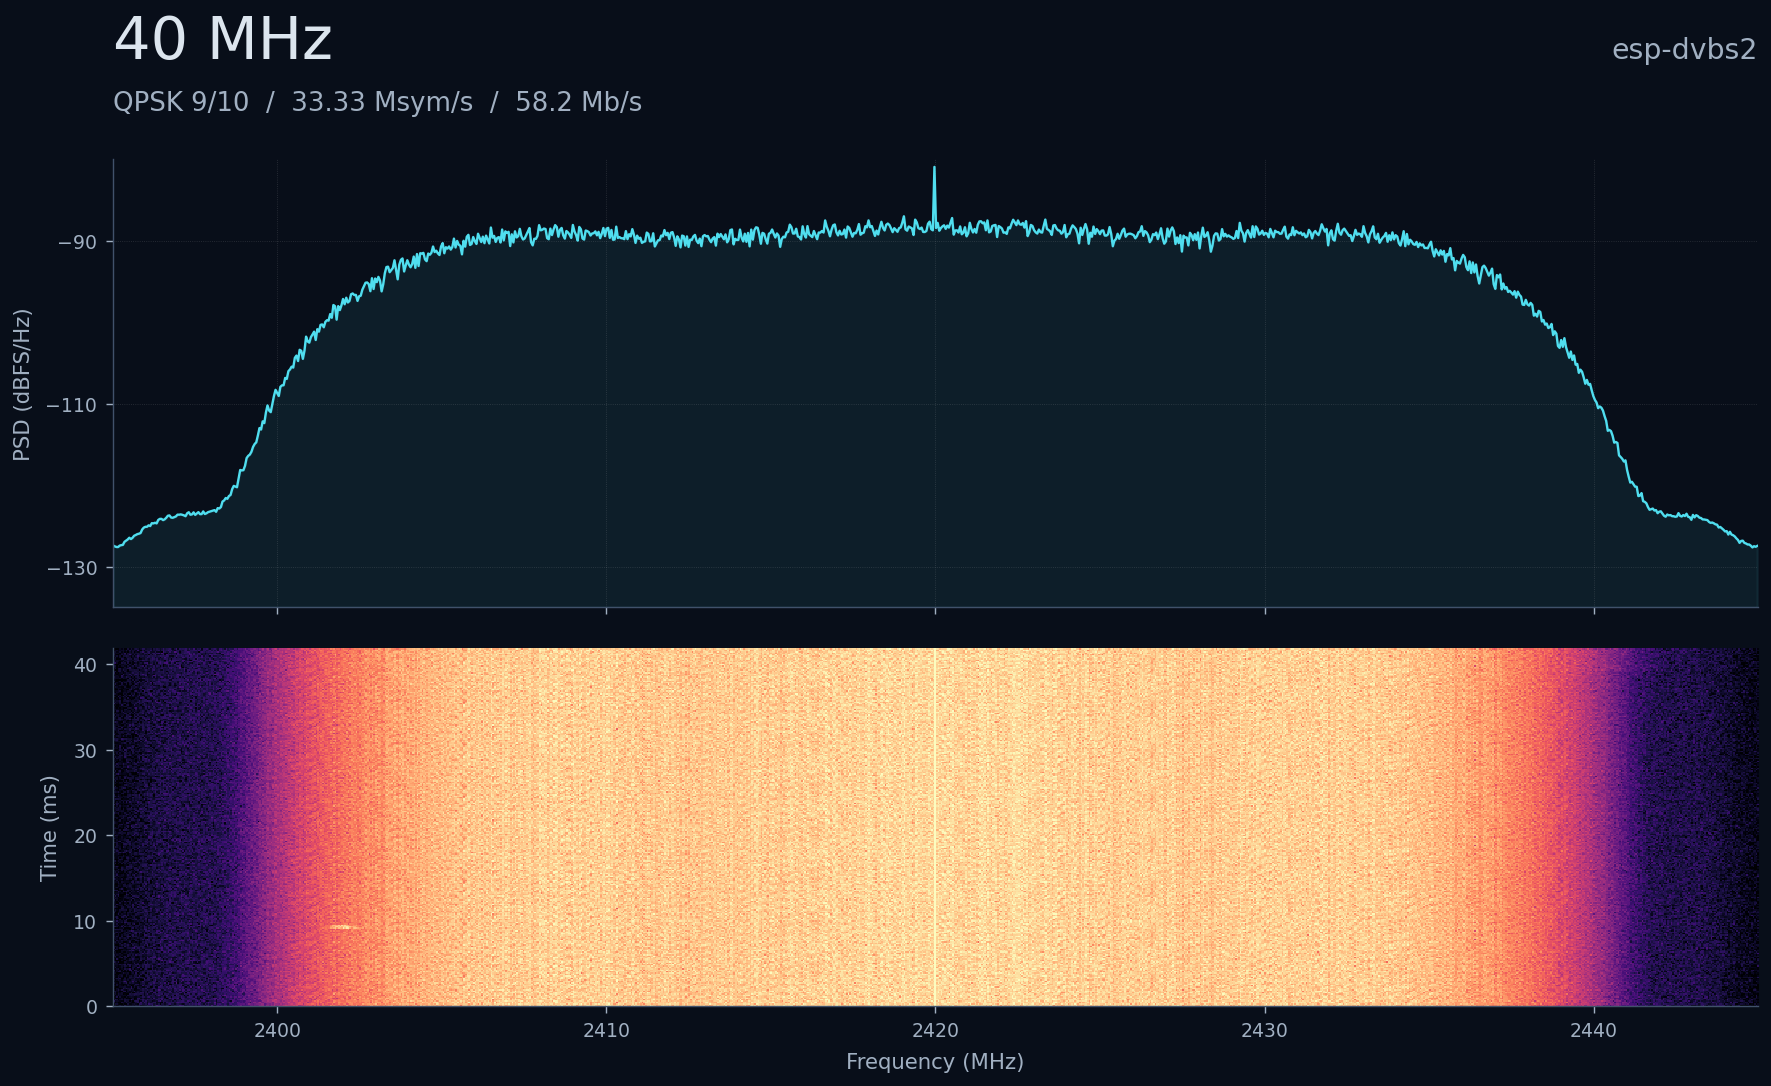
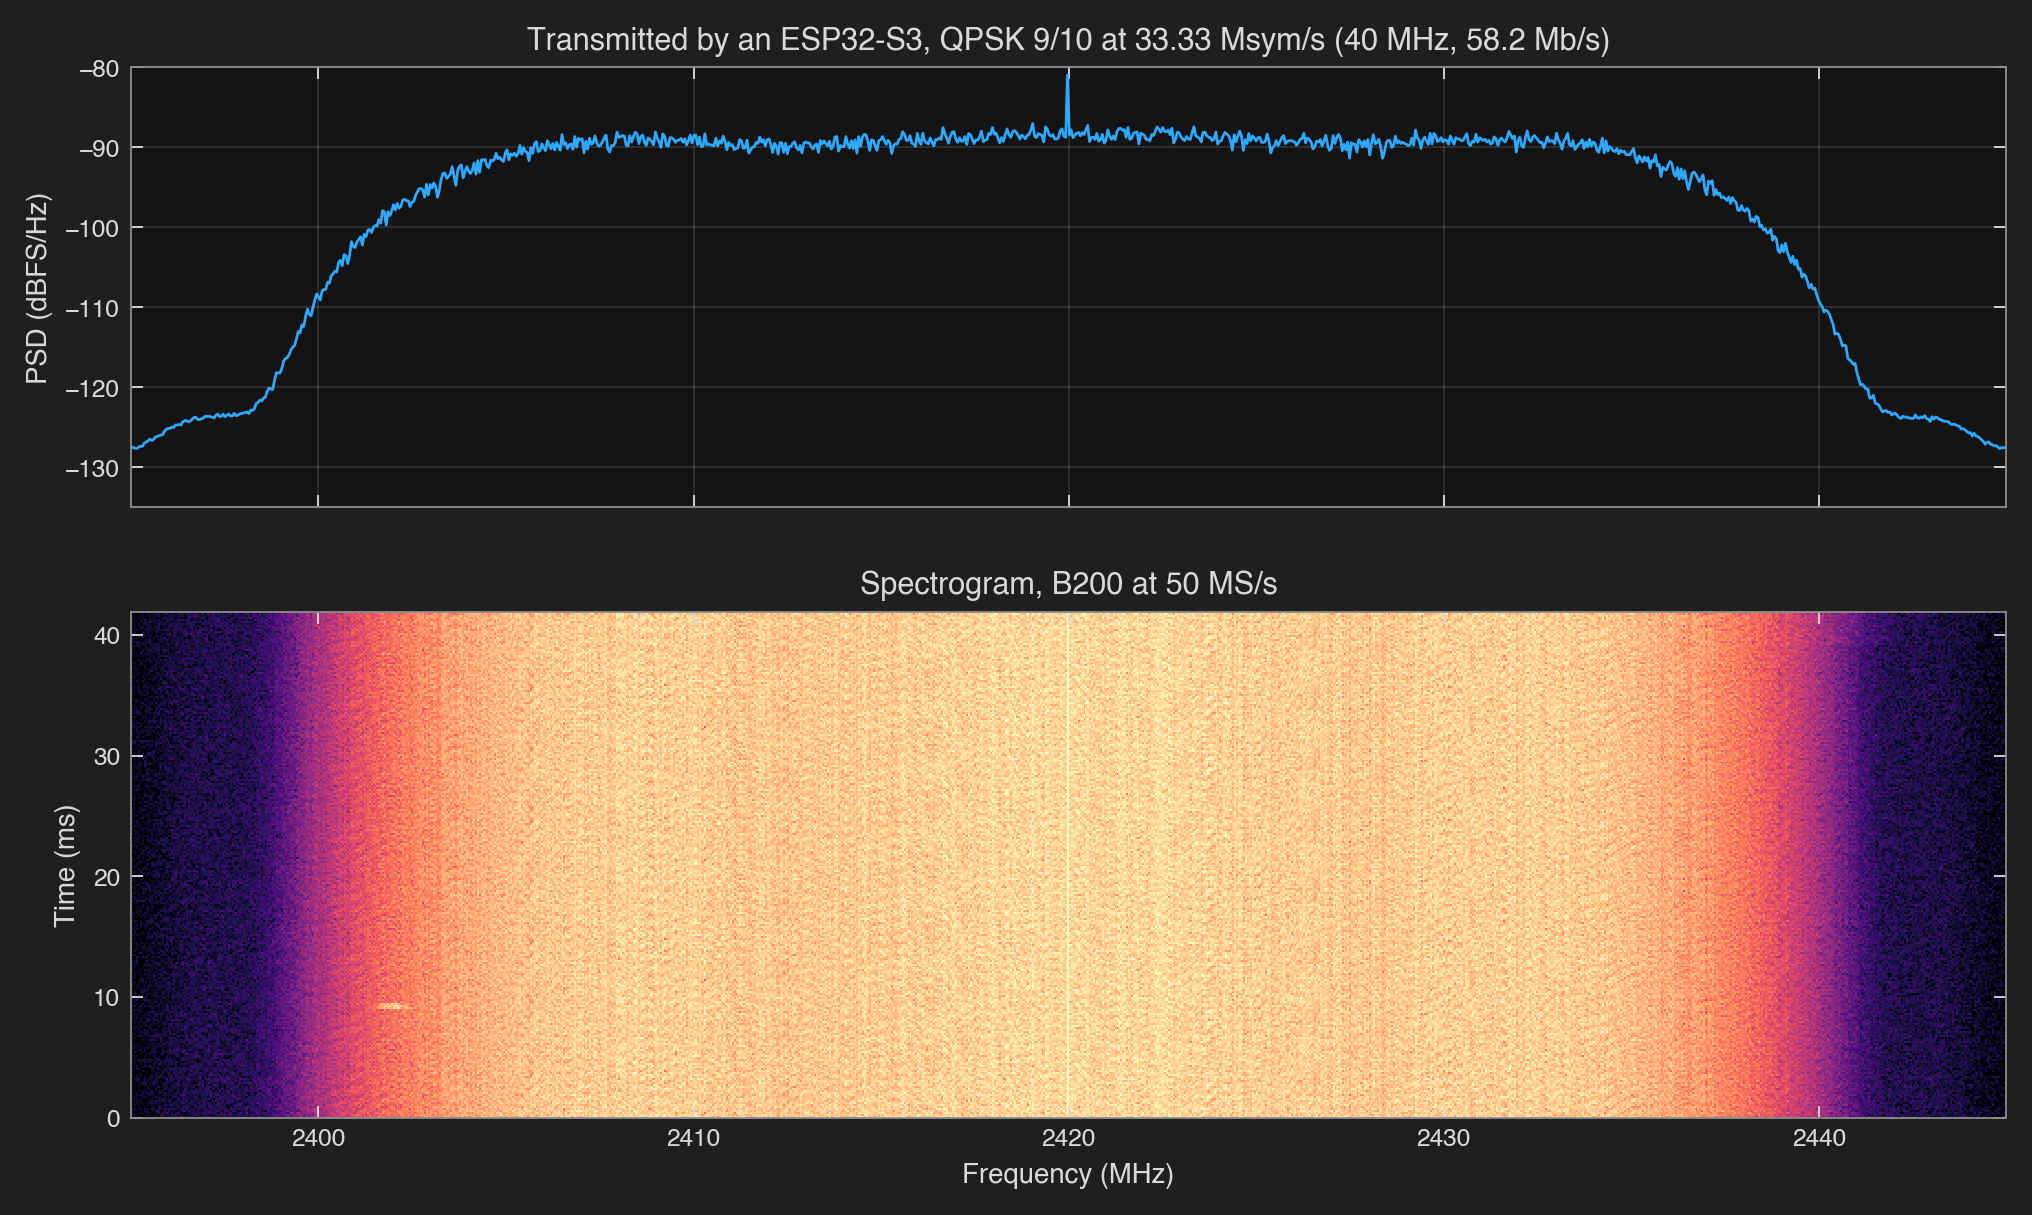
rf figures in the new style
Same B200 summaries, drawn like the receiver figures: plain titles, MATLAB dark axes.

diff --git a/host/plots.py b/host/plots.py
@@ -236,43 +236,23 @@ def rf_figures(out, *, iq_dir=None, check=False):
         assert waterfall.shape == (256, 1024) and np.isfinite(waterfall).all()
         if check:
             continue
-        style = {'font.family': 'DejaVu Sans', 'text.color': '#dce5ee',
-                 'axes.labelcolor': '#a1b0c2', 'axes.edgecolor': '#40516a',
-                 'xtick.color': '#a1b0c2', 'ytick.color': '#a1b0c2',
-                 'figure.facecolor': '#080e19', 'axes.facecolor': '#080e19',
-                 'xtick.top': False, 'ytick.right': False, 'xtick.direction': 'out',
-                 'ytick.direction': 'out', 'savefig.facecolor': '#080e19'}
-        with plt.rc_context(style):
-            fig, (ax, bx) = plt.subplots(2, 1, figsize=(11, 6.6), sharex=True,
-                                        gridspec_kw={'height_ratios': [1.25, 1]})
-            mode = 'QPSK 9/10' if row['modcod'] == 11 else '8PSK 9/10'
-            fig.text(.085, .94, f"{row['bandwidth_mhz']:g} MHz", fontsize=25)
-            fig.text(.085, .893, f"{mode}  /  {row['symbol_rate_hz']/1e6:.2f} Msym/s  /  "
-                     f"{row['payload_mbps']:g} Mb/s", fontsize=11, color='#a1b0c2')
-            fig.text(.965, .94, 'esp-dvbs2', ha='right', fontsize=12, color='#a1b0c2')
-            ax.plot(frequency, psd, color='#50deef', linewidth=1)
-            ax.fill_between(frequency, -135, psd, color='#50deef', alpha=.08)
-            ax.set(ylim=(-135, -80), ylabel='PSD (dBFS/Hz)')
-            ax.set_yticks([-130, -110, -90])
-            ax.grid(alpha=.18)
-            span = row['sample_rate_hz']/2e6
-            bx.imshow(waterfall, origin='lower', aspect='auto',
-                              extent=(row['center_mhz']-span, row['center_mhz']+span,
-                                      0, row['seconds']*1000),
-                              cmap='magma', vmin=-130, vmax=-85, interpolation='nearest')
-            bx.set(xlabel='Frequency (MHz)', ylabel='Time (ms)',
-                   xlim=(row['center_mhz']-span, row['center_mhz']+span))
-            bx.set_yticks([0, 10, 20, 30, 40])
-            for axis in (ax, bx):
-                axis.spines[['top', 'right']].set_visible(False)
-                axis.ticklabel_format(axis='x', style='plain', useOffset=False)
-            fig.subplots_adjust(left=.085, right=.965, top=.85, bottom=.095, hspace=.1)
-            out.mkdir(parents=True, exist_ok=True)
-            target = out/('rf-40mhz.png' if row['modcod'] == 11 else 'rf-36mhz.png')
-            fig.savefig(target, dpi=170, bbox_inches=None,
-                        metadata={'Software': 'esp-dvbs2 / Matplotlib'})
-            plt.close(fig)
-            print(target)
+        fig, (ax, bx) = plt.subplots(2, 1, figsize=(11, 6.2), sharex=True,
+                                    gridspec_kw={'height_ratios': [1, 1.15], 'hspace': 0.22})
+        mode = 'QPSK 9/10' if row['modcod'] == 11 else '8PSK 9/10'
+        ax.plot(frequency, psd, color=BLUE, linewidth=0.9)
+        ax.set(ylim=(-135, -80), ylabel='PSD (dBFS/Hz)',
+               title=f"Transmitted by an ESP32-S3, {mode} at {row['symbol_rate_hz']/1e6:.2f} Msym/s "
+                     f"({row['bandwidth_mhz']:g} MHz, {row['payload_mbps']:g} Mb/s)")
+        ax.set_yticks([-130, -120, -110, -100, -90, -80])
+        span = row['sample_rate_hz']/2e6
+        bx.imshow(waterfall, origin='lower', aspect='auto', vmin=-130, vmax=-85, interpolation='nearest',
+                  extent=(row['center_mhz']-span, row['center_mhz']+span, 0, row['seconds']*1000))
+        bx.grid(False)
+        bx.set(xlabel='Frequency (MHz)', ylabel='Time (ms)', title='Spectrogram, B200 at 50 MS/s',
+               xlim=(row['center_mhz']-span, row['center_mhz']+span))
+        bx.set_yticks([0, 10, 20, 30, 40])
+        bx.ticklabel_format(axis='x', style='plain', useOffset=False)
+        save_figure(fig, out/('rf-40mhz.png' if row['modcod'] == 11 else 'rf-36mhz.png'))
 
 
 def rx_summary(row, capture):
